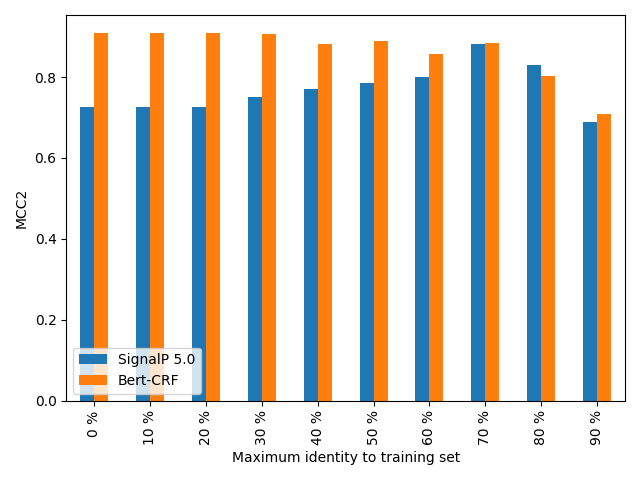
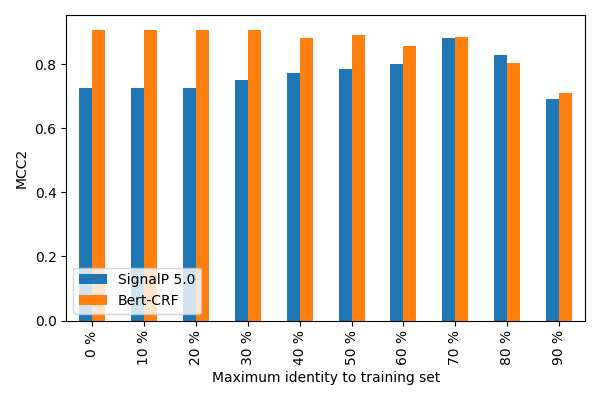
rescaled removed sample plots

Changed region(s): [[0.0, 0.03, 0.99, 0.99]]

diff --git a/sp_prediction_experiments/experiments_results/removed_samples/makeplots.py b/sp_prediction_experiments/experiments_results/removed_samples/makeplots.py
@@ -10,7 +10,7 @@ sp5 = df.loc[df.index.str.contains('multiclass')].mean(axis=1)
 
 df = pd.DataFrame([sp5, bert],index=['SignalP 5.0', 'Bert-CRF']).T
 df.index = [f'{x} %' for x in range(0,100,10)]
-df.plot(kind='bar')
+df.plot(kind='bar', figsize=(6,4))
 plt.legend(loc='lower left')
 plt.ylabel('MCC')
 plt.xlabel('Maximum identity to training set')
@@ -32,7 +32,7 @@ sp5 = df.loc[df.index.str.contains('mcc2')].groupby('bin').mean().mean(axis=1)
 
 df = pd.DataFrame([sp5, bert],index=['SignalP 5.0', 'Bert-CRF']).T
 df.index = [f'{x} %' for x in range(0,100,10)]
-df.plot(kind='bar')
+df.plot(kind='bar', figsize=(6,4))
 plt.legend(loc='lower left')
 plt.ylabel('MCC2')
 plt.xlabel('Maximum identity to training set')
